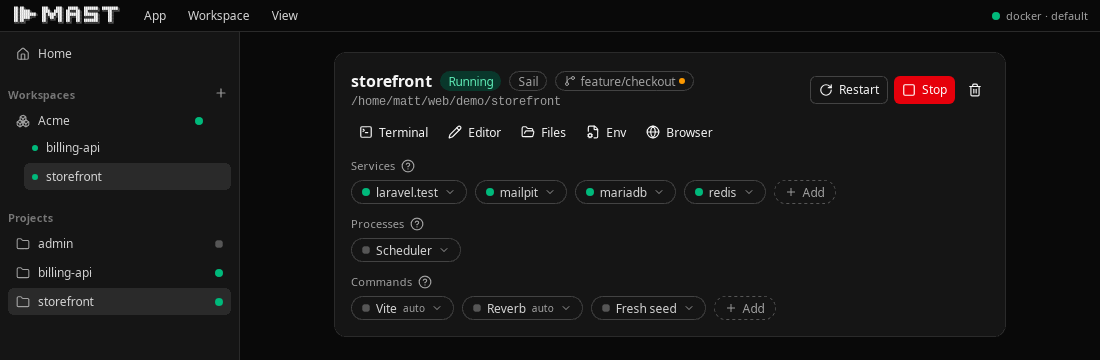
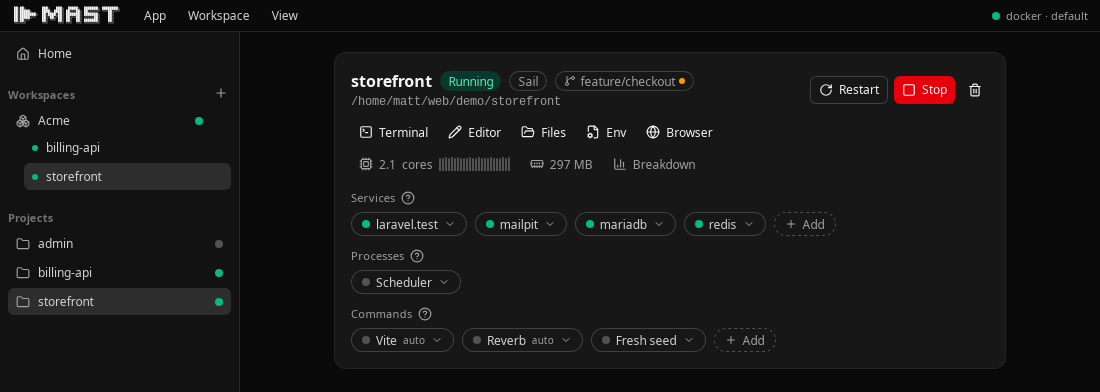
Refresh the README media for the new UI, and fix what shooting it exposed
Recaptures project.png with the live CPU/memory row, and adds screenshots
for the two sections that had none — the captures tab showing a redis
container's real shutdown sequence, and the resources tab ranking a
genuinely busy service above five idle ones.

Driving the real app for the shots surfaced three things worth fixing:

The status-bar sparkline was pinned to the host's core count, so a dev
machine idling at a fraction of one core drew a flat dotted rule with no
shape in it. Floored instead — the cores figure beside it already carries
the absolute scale.

Memory showed "0%" on every row, because a container with no limit is
measured against all of host RAM. The percentage now appears only where
the denominator is a real cgroup limit and the number therefore means
something.

formatCores returned "0" for zero and "0.00" just above it, which read as
ragged down a column of right-aligned numbers.

diff --git a/clients/desktop-vue/src/components/UsageReadout.vue b/clients/desktop-vue/src/components/UsageReadout.vue
@@ -55,9 +55,12 @@ const idle = computed(() => latest.value === null || latest.value.services.lengt
         <span class="flex items-center gap-1.5">
           <span class="tabular-nums">{{ formatCores(total.cpuCores) }}</span>
           <span class="text-slate-400">/ {{ hostCores }} cores</span>
-          <!-- Scaled to the machine, not to the window: a self-scaling strip
-             would make an idle container look as busy as a saturated one. -->
-          <Sparkline :values="cpuHistory" :max="hostCores || undefined" />
+          <!-- Floored rather than pinned to the host's core count. A dev
+             machine idles at a fraction of a core, and against a 14-core
+             ceiling that draws a flat dotted rule with no shape in it. The
+             cores figure beside it carries the absolute scale; the strip is
+             here to show movement. -->
+          <Sparkline :values="cpuHistory" :floor="1" />
         </span>
         <span class="flex items-center gap-1.5">
           <span class="tabular-nums">{{ formatBytes(total.memoryBytes) }}</span>

diff --git a/clients/desktop-vue/src/lib/usage.ts b/clients/desktop-vue/src/lib/usage.ts
@@ -72,7 +72,7 @@ export function formatBytes(bytes: number): string {
  * `0.01`, not `0.0`, and a busy one is `2.3`, not `2.31667`.
  */
 export function formatCores(cores: number): string {
-  if (!Number.isFinite(cores) || cores <= 0) return "0";
+  if (!Number.isFinite(cores) || cores <= 0) return "0.00";
   if (cores < 0.1) return cores.toFixed(2);
   return cores.toFixed(1);
 }

diff --git a/clients/desktop-vue/src/lib/usage.test.ts b/clients/desktop-vue/src/lib/usage.test.ts
@@ -63,7 +63,8 @@ describe("formatCores", () => {
     // An idle container is not zero, and saying so would be a lie.
     expect(formatCores(0.04)).toBe("0.04");
     expect(formatCores(2.31667)).toBe("2.3");
-    expect(formatCores(0)).toBe("0");
+    // Constant width down a column: "0" beside "0.06" reads as ragged.
+    expect(formatCores(0)).toBe("0.00");
   });
 });
 

diff --git a/clients/desktop-vue/src/components/LogsPanel.vue b/clients/desktop-vue/src/components/LogsPanel.vue
@@ -682,7 +682,7 @@ watch(
                         : 'text-slate-400'
                     "
                   >
-                    {{ formatPercent(memoryShare(usage)) }}
+                    {{ usage.memoryLimited ? formatPercent(memoryShare(usage)) : "" }}
                   </span>
                 </div>
               </Tooltip>

diff --git a/README.md b/README.md
@@ -127,7 +127,7 @@ Mast automatically discovers Laravel Sail and Docker Compose projects from the d
 
 Every project shows its services, application processes, saved commands, and live container state.
 
-<img src="docs/media/project.png" alt="Project pane showing service, process, and command chips for a running Sail project" width="900">
+<img src="docs/media/project.png" alt="Project pane showing live CPU and memory alongside service, process, and command chips for a running Sail project" width="900">
 
 ### Project & service controls
 
@@ -179,6 +179,8 @@ Captures are written to disk, so they survive both the container being replaced 
 
 Values that look like secrets in your `.env` are removed before a capture is stored — unlike a live stream, a capture is persisted and copyable.
 
+<img src="docs/media/captures.png" alt="Captures tab listing three containers that went down, the newest expanded to show its final log lines" width="900">
+
 ---
 
 ## Resource usage
@@ -194,6 +196,8 @@ Where a container has a memory limit, Mast shows how close it is to it, which is
 The Resources tab ranks every running service across every project, so the answer to "what do I stop" is the top row. Sort by service, CPU, or memory by clicking a column.
 
 Short histories are kept alongside each reading, because one CPU number cannot tell a momentary spike apart from a steady climb.
+
+<img src="docs/media/resources.png" alt="Resources tab ranking every running service by CPU, busiest first, with memory and a stop control per row" width="900">
 
 Sampling only runs while the Mast window is visible. Measuring the machine costs CPU, and a minimised Mast should not be part of the problem it reports on.
 
